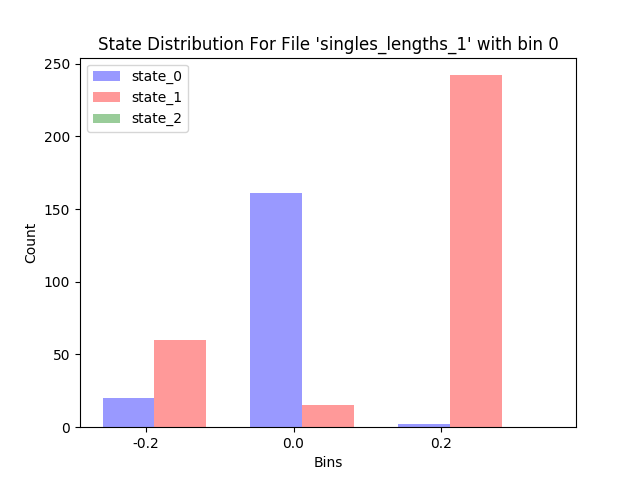
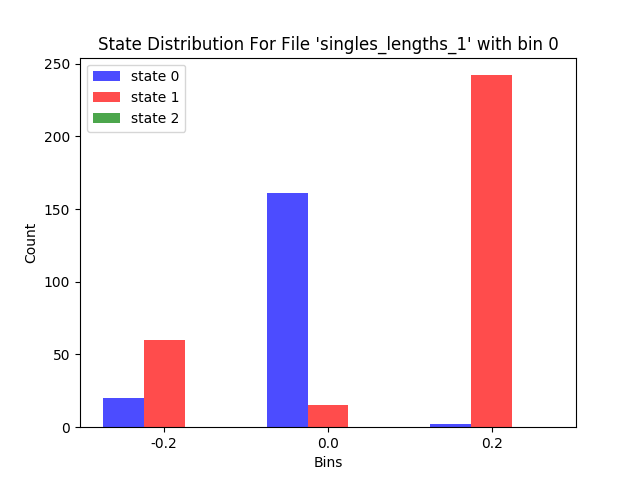
state/lenght distribution graphs generated

diff --git a/analytics.py b/analytics.py
@@ -142,31 +142,31 @@ def generate_length_state_distributions():
 
 
             bin_states = {}
+            lengths_set = data_bin
 
-            for k in range(0, len(states)):
-                bin_states[lengths[k]] = {}
-                bin_states[lengths[k]][0] = 0
-                bin_states[lengths[k]][1] = 0
-                bin_states[lengths[k]][2] = 0
+            for k in range(0, len(lengths_set)):
+                bin_states[lengths_set[k]] = {}
+                bin_states[lengths_set[k]][0] = 0
+                bin_states[lengths_set[k]][1] = 0
+                bin_states[lengths_set[k]][2] = 0
 
             for k in range(0,len(states)):
                 bin_states[lengths[k]][states[k]] += 1
-
-
 
 
             # Remove .csv form name
             length_file_clean = length_files[j][:-4]
             state_file = state_files[j][:-4]
 
-            lengths_set = data_bin
+            
+            
             x_position = list(range(0,len(lengths_set)))
 
 
             #print bin_states;
             n_groups = len(x_position)
-            opacity = 0.4
-            bar_width = 0.35
+            opacity = 0.7
+            bar_width = 0.25
             index = np.arange(n_groups)
             zero_state_list = []
             one_state_list = []
@@ -178,9 +178,7 @@ def generate_length_state_distributions():
                 one_state_list.append(bin_states[key][1]) 
                 two_state_list.append(bin_states[key][2])
 
-            print zero_state_list
-            print one_state_list
-            print two_state_list
+            
             
 
             rects1 = plt.bar(index, zero_state_list, bar_width,
@@ -200,7 +198,7 @@ def generate_length_state_distributions():
 
             plt.xlabel('Bins')
             plt.ylabel('Count')
-            plt.xticks(index + bar_width / 3, data_bin)
+            plt.xticks(index + 2*bar_width / 2, data_bin)
             plt.legend()
             plt.title('State Distribution For File \''+length_file_clean+'\' with bin '+str(bin_number))
             plt.savefig('plots/length_state_distributions/'+length_file_clean+'_bin-'+str(bin_number)+'_distribution.png')
@@ -208,9 +206,7 @@ def generate_length_state_distributions():
             plt.clf() # clear figure
             bin_number += 1
             
-        break;
-
-    print bin_states
+    
 
 
 
